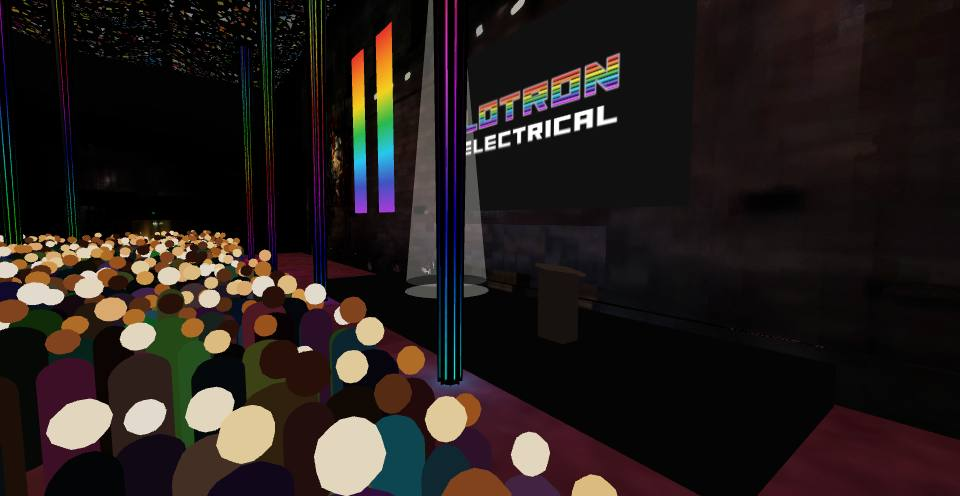
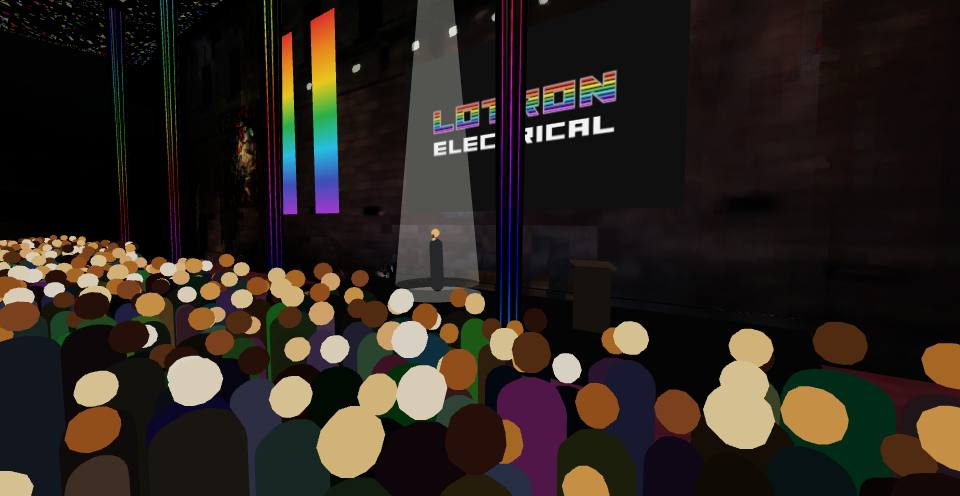
Shot 6 (Lloyd's note, V5) fades out from 13.9 s with the camera still on the move: the circle eases in and never eases out
Claude-Session: https://claude.ai/code/session_01TvFyJ7jgaVEcvXM9wy2J9o

diff --git a/index.html b/index.html
@@ -3679,8 +3679,10 @@ function tourSegments(){ const uM=EVENT.wallLen/2, c=EVENT.cols;
   // the whole way
   // (Lloyd, V9) on a phone's narrow picture the circle is 13 m out, not 9, and a little higher,
   // so the crowd and more of the columns are in the frame
-  {mode:'standing',dur:16,cam:k=>{ const q=smooth(k), a=Math.PI*(0.18+0.64*q), S=EP(uM,1.9,1.6), r=cam.aspect>1?9:13, hz=cam.aspect>1?0:0.6;
-    poseAt(EP(uM+r*Math.cos(a),2.0+hz+0.6*q,1.6+r*Math.sin(a)),S); titlesNow(k*16,TX('standing')); veil(1-smooth(Math.min(1,k*16/1.5))); }},   /* (Lloyd, V2) fades in from black */
+  // (Lloyd, V5) the shot fades out from 13.9 s with the camera still on the move: the circle
+  // eases in and never eases out
+  {mode:'standing',dur:16,cam:k=>{ const q=1-Math.cos(k*Math.PI/2), a=Math.PI*(0.18+0.64*q), S=EP(uM,1.9,1.6), r=cam.aspect>1?9:13, hz=cam.aspect>1?0:0.6;
+    poseAt(EP(uM+r*Math.cos(a),2.0+hz+0.6*q,1.6+r*Math.sin(a)),S); titlesNow(k*16,TX('standing')); veil(Math.max(1-smooth(Math.min(1,k*16/1.5)),smooth(Math.max(0,(k*16-13.9)/1.5)))); }},   /* (Lloyd, V2) fades in from black; (V5) out from 13.9 s */
   // (Lloyd, V2) the ceremony plays to the shot's clock: the turn, the veil, the kiss, the dip
   {mode:'wedding',dur:14, cam:k=>{ withTitles(glide(EP(uM,1.7,14.2),EP(uM,1.5,6.4),EP(uM,1.5,3.5),EP(uM,1.25,3.5)),14,TX('wedding-aisle'))(k); if(wedding)wedding.cer=k*14; }},
   // Celebrate starts the walk; the camera keeps 3.5 m behind the couple, at their shoulder height
